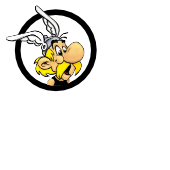
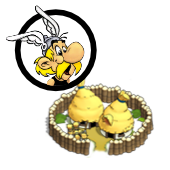
make death screen better

Changed region(s): [[0.2647, 0.4706, 0.9118, 0.9412]]

diff --git a/js/groupClass.js b/js/groupClass.js
@@ -19,6 +19,9 @@ class Group {
     }
 
     draw() {
+        if (parseInt(wholeGroupData[this.groupId - 1]['hp']) === 0) {
+            groupIcons[this.groupId - 1].filter(GRAY)
+        }
         image(groupIcons[this.groupId-1],this.x,this.y,this.iconSize.x,this.iconSize.y);
         this.drawName();
     }
@@ -94,8 +97,8 @@ class Enemy extends Group {
             }
             if (parseInt(wholeGroupData[this.groupId - 1]['hp']) === 0) {
                 //fill('#ff0000aa');
-                image(tombStone, this.x, this.y, 50, 50);
-                super.drawName();
+                //image(tombStone, this.x, this.y, 50, 50);
+                super.draw();
             } else {
                 super.draw();
 

diff --git a/js/gameField.js b/js/gameField.js
@@ -93,8 +93,8 @@ function draw() {
                     }
                 } else {
                     tint(80);
-                    image(tombStone, enemy.x, enemy.y, 50, 50);
-                    enemy.drawName();
+                    //image(tombStone, enemy.x, enemy.y, 50, 50);
+                    enemy.draw();
                     noTint();
                     enemy.updateShownInfo();
 

diff --git a/js/fillLog.js b/js/fillLog.js
@@ -9,7 +9,7 @@ function updateLog(){
         .done(function(data){
             log = data;
 
-            let shownMessages = Math.floor(0.8 * $(window).height()/15)-2 - 8;
+            let shownMessages = Math.floor(0.8 * $(window).height()/15)-2 - 10;
 
             if(groupId != 100){
                 shownMessages -= 9;
